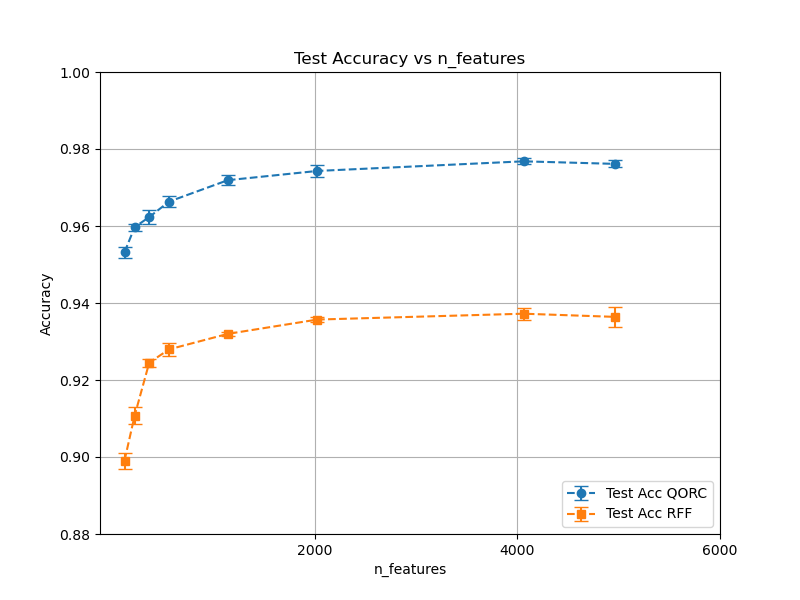
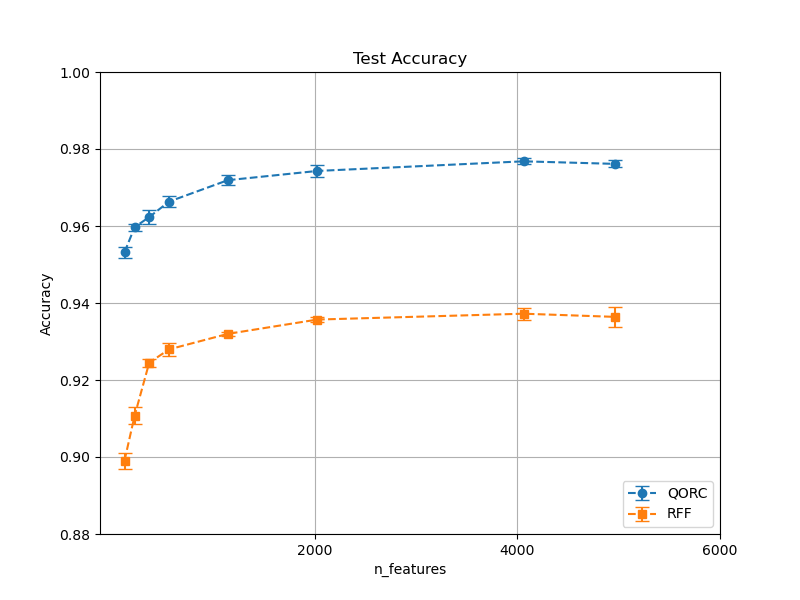
Fix graphs title and legend

Changed region(s): [[0.7188, 0.81, 0.875, 0.87], [0.375, 0.09, 0.6562, 0.12]]

diff --git a/QORC/utils/draw_main_graph.py b/QORC/utils/draw_main_graph.py
@@ -41,15 +41,15 @@ def draw_main_graph(
     y_min,
     y_max,
     f_out_img,
+    b_short_names,
 ):
     df = pd.read_csv(f_in_aggregated_results_csv)
 
-    disk_size_ratio = 0.3
+    disk_size_ratio = 0.25
     legend_disk_size_list = [800, 1600, 2400, 3200, 4000, 4800]
     figsize = (figsize_list[0], figsize_list[1])
 
     colors = plt.cm.tab10.colors
-    s_qorc_output_size_name = "qorc_output_size"
 
     # Compute avg and StDev per couple (n_photons, n_modes)
     grouped = (
@@ -78,7 +78,9 @@ def draw_main_graph(
                 yerr=subset["std_train_acc"],
                 marker=marker,
                 color=color,
-                label=f"Train Acc (n_photons={n_photon})",
+                label=f"n_photons={n_photon}"
+                if b_short_names
+                else f"Train Acc (n_photons={n_photon})",
                 linestyle="-",
                 capsize=5,
             )
@@ -95,7 +97,9 @@ def draw_main_graph(
                 yerr=subset["std_test_acc"],
                 marker=marker,
                 color=color,
-                label=f"Test Acc (n_photons={n_photon})",
+                label=f"n_photons={n_photon}"
+                if b_short_names
+                else f"Test Acc (n_photons={n_photon})",
                 linestyle="--",
                 capsize=5,
             )
@@ -118,6 +122,8 @@ def draw_main_graph(
     plt.xlabel("n_modes (log scale)")
     plt.ylabel("Accuracy")
     s_title = "Accuracy vs n_modes"
+    if b_short_names:
+        s_title = "Accuracy"
     if b_test_acc:
         s_title = "Test " + s_title
     if b_train_acc:
@@ -136,12 +142,12 @@ def draw_main_graph(
             s=size * disk_size_ratio,
             color="gray",
             alpha=0.3,
-            label=s_qorc_output_size_name + "=" + str(size),
+            label=str(size),
         )
     plt.legend(
         bbox_to_anchor=(1.05, 0.9),
         loc="upper left",
-        title="Disk Size",
+        title="QORC output size",
         labelspacing=2.7,
     )
 
@@ -177,6 +183,9 @@ if __name__ == "__main__":
     [x_min, x_max] = [9.2, 220.0]
     [y_min, y_max] = [0.92, 1.0]
 
+    # b_short_names = False
+    b_short_names = True
+
     draw_main_graph(
         f_in_aggregated_results_csv,
         figsize_list,
@@ -187,4 +196,5 @@ if __name__ == "__main__":
         y_min,
         y_max,
         f_out_img,
+        b_short_names,
     )

diff --git a/QORC/utils/draw_graph_qorc_vs_rff.py b/QORC/utils/draw_graph_qorc_vs_rff.py
@@ -39,6 +39,7 @@ def draw_graph_qorc_vs_rff(
     b_train_acc,
     b_test_acc,
     f_out_img,
+    b_short_names,
 ):
     df_qorc = pd.read_csv(f_in_qorc_aggregated_results_csv)
     df_rff = pd.read_csv(f_in_rff_aggregated_results_csv)
@@ -91,7 +92,7 @@ def draw_graph_qorc_vs_rff(
             grouped_qorc["n_features"],
             grouped_qorc["mean_train_acc"],
             yerr=grouped_qorc["std_train_acc"],
-            label="Train Acc QORC",
+            label="QORC" if b_short_names else "Train Acc QORC",
             marker="o",
             linestyle="-",
             capsize=5,
@@ -101,7 +102,7 @@ def draw_graph_qorc_vs_rff(
             grouped_qorc["n_features"],
             grouped_qorc["mean_test_acc"],
             yerr=grouped_qorc["std_test_acc"],
-            label="Test Acc QORC",
+            label="QORC" if b_short_names else "Test Acc QORC",
             marker="o",
             linestyle="--",
             capsize=5,
@@ -113,7 +114,7 @@ def draw_graph_qorc_vs_rff(
             grouped_rff["n_features"],
             grouped_rff["mean_train_acc"],
             yerr=grouped_rff["std_train_acc"],
-            label="Train Acc RFF",
+            label="RFF" if b_short_names else "Train Acc RFF",
             marker="s",
             linestyle="-",
             capsize=5,
@@ -123,7 +124,7 @@ def draw_graph_qorc_vs_rff(
             grouped_rff["n_features"],
             grouped_rff["mean_test_acc"],
             yerr=grouped_rff["std_test_acc"],
-            label="Test Acc RFF",
+            label="RFF" if b_short_names else "Test Acc RFF",
             marker="s",
             linestyle="--",
             capsize=5,
@@ -132,6 +133,8 @@ def draw_graph_qorc_vs_rff(
     plt.xlabel("n_features")
     plt.ylabel("Accuracy")
     s_title = "Accuracy vs n_features"
+    if b_short_names:
+        s_title = "Accuracy"
     if b_test_acc:
         s_title = "Test " + s_title
     if b_train_acc:
@@ -172,6 +175,9 @@ if __name__ == "__main__":
     # b_test_acc = False
     b_test_acc = True
 
+    # b_short_names = False
+    b_short_names = True
+
     draw_graph_qorc_vs_rff(
         f_in_qorc_aggregated_results_csv,
         f_in_rff_aggregated_results_csv,
@@ -180,4 +186,5 @@ if __name__ == "__main__":
         b_train_acc,
         b_test_acc,
         f_out_img,
+        b_short_names,
     )
